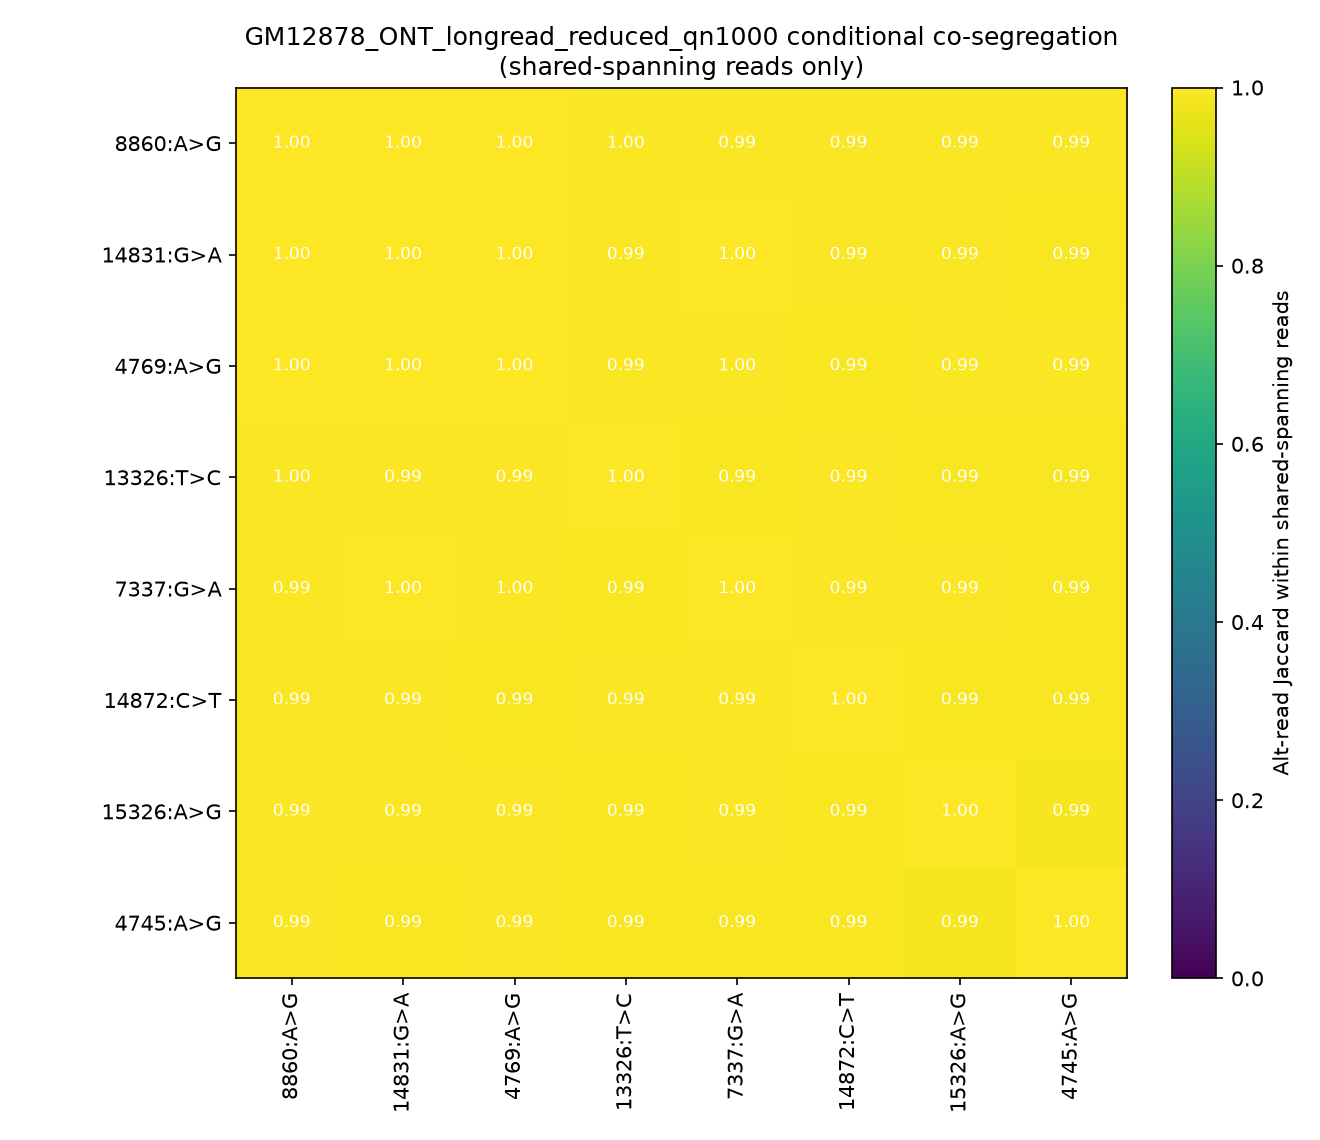
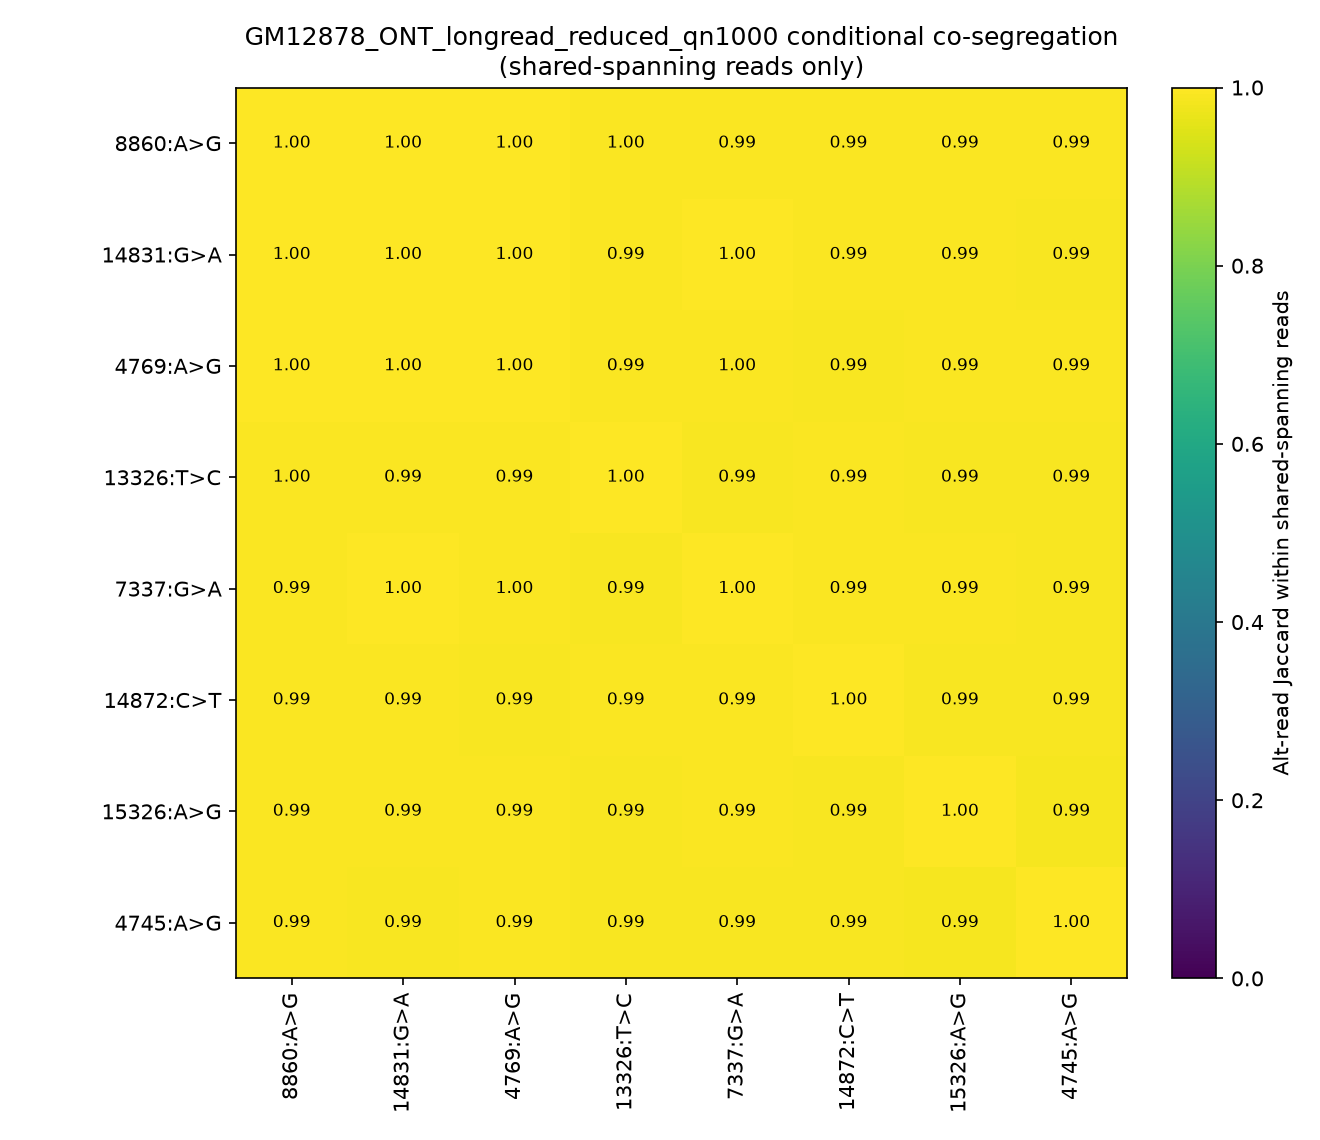
Refresh audited public examples and figure contrast

diff --git a/mito_overview/steps/mito_cosegregation.py b/mito_overview/steps/mito_cosegregation.py
@@ -339,13 +339,18 @@ def _write_heatmap(
             value = values[row_idx, col_idx]
             if np.isnan(value):
                 continue
-            text_color = "white" if value >= 0.6 else "black"
+            text_color = _heatmap_text_color(value)
             plt.text(col_idx, row_idx, f"{value:.2f}", ha="center", va="center", color=text_color, fontsize=8)
     plt.tight_layout()
     figure_path = figure_dir / "mito_cosegregation_heatmap.png"
     plt.savefig(figure_path, dpi=150)
     plt.close()
     return figure_path
+
+
+def _heatmap_text_color(value: float) -> str:
+    """Keep annotations legible across the dark-to-bright viridis scale."""
+    return "black" if value >= 0.6 else "white"
 
 
 def run_step(

diff --git a/tests/test_cosegregation_semantics.py b/tests/test_cosegregation_semantics.py
@@ -6,6 +6,14 @@ import pytest
 from mito_overview.steps import mito_cosegregation as cosegregation
 
 
+@pytest.mark.parametrize(
+    ("value", "expected"),
+    [(0.0, "white"), (0.59, "white"), (0.6, "black"), (1.0, "black")],
+)
+def test_heatmap_annotation_contrast(value: float, expected: str) -> None:
+    assert cosegregation._heatmap_text_color(value) == expected
+
+
 def test_alt_jaccard_is_conditioned_on_shared_spanning_reads() -> None:
     selected_sites = pd.DataFrame({"site_label": ["10:A>C", "20:A>G"]})
     coverage_by_site = {

diff --git a/analysis_log.md b/analysis_log.md
@@ -123,3 +123,9 @@ This log records release-hardening actions that affect the public repository. It
[1 lines of base64/hex data omitted]
 - Wheel and source distribution were installed independently into separate Python 3.12 environments outside the checkout. Each imported version `0.3.0` from its own `site-packages`, exposed all 18 CLI steps, and completed the generic dry-run with empty `PYTHONPATH`. A fresh extraction of the built source distribution independently passed all `562` tests in `178.57 s`.
 - The frozen `paper/**` tree remained `bfb5664db9c8b43ed5de33ecbddef88071fc6378`. Fresh exact-candidate role audits, PR/push CI, empty-cache public reproduction, packet/report generation, tag validation, and GitHub release publication remain pending and are not inferred from these local gates.
+- Three independent read-only audits of candidate `3e9304dee962a08cd308d496a1434495589d3746` identified four additional release blockers. Fresh-tag validation compared only selected synthetic files rather than the complete 88-file long-read and 74-file short-read inventories; the wheel omitted packaged annotation resources; resource-byte labels overstated their measurement scope; and the GM11906 source identity was supported only by project-authored metadata. The scientific audit also found that missing identity/gene evidence could be serialized as observed zero, the public examples retained pre-remediation schemas, and the NUMT/full-length metric mixed primary and all-alignment denominators.
+- Remediation made fresh-tag validation compare exact complete synthetic inventories, packaged the mitochondrial GTF and reference FASTA in the wheel, and added installed-resource lookup tests. Resource metrics now explicitly report broad declared-input bytes and changed/new output bytes rather than claiming operating-system I/O accounting. A tracked NCBI metadata snapshot binds the three GM11906 SRR accessions to their GEO samples and cell-line identity through official GEO SOFT and SRA XML records, with source URLs, retrieval timestamp, and SHA-256 values propagated into cache, matrix, packet, report, and verifier contracts.
+- Scientific remediation now distinguishes unavailable identity and gene-level quantitative evidence from observed zero, derives the long-read full-length fraction only from primary alignment records, cross-checks the same denominator in alignment-ambiguity QC, and marks that metric `not_applicable` for short-read mode. The corrected synthetic bundles were regenerated twice; all 88 long-read files and all 74 short-read files matched byte for byte between independent builds and were promoted only after focused package/release tests passed.
+- Re-ran the corrected GM11906 and GM12878 default public workflows from provenance-verified local alignments without modifying the sealed raw cache. GM11906 retained the preregistered `m.8344A>G` result: callable depth `1027`, alternate count `740`, forward/reverse counts `305/435`, alternate allele fraction `0.720545`, `MT-TK`, and `tRNA_variant`. GM12878 retained `16` candidates, `7,143,152` accepted and `2,047,476` excluded observations, `728` primary and `543` supplementary records, mean/median depth `545.484/544`, eight selected co-occurrence sites, 13 CIGAR-deletion bins, five deletion-supporting query names, and 542 supplementary/SA query names. Both default bundles retained 44 summary TSVs and 14 HTML pages; GM11906 and GM12878 retained seven and 15 PNGs, respectively. A combined matrix containing the corrected defaults passed all `256/256` frozen scientific assertions before the fail-closed 56-file tracked public-example refresh.
+- Visual inspection found that co-segregation heatmap labels used white text on bright viridis cells because the annotation-contrast condition was reversed. The renderer now uses black text for bright cells and white text for dark cells, with a focused threshold test. The corrected GM12878 report-native heatmap and montage were visually inspected, and two long-read toy rebuilds remained byte-identical across all 88 files because the one-site toy correctly has no evaluable heatmap.
+- These refreshed examples and local checks are candidate evidence only. Exact-candidate full tests, workflow gates, package installations, independent re-audits, PR and push CI, empty-cache macOS and Ubuntu reproduction, packet/report construction, annotated tag validation, and GitHub release publication remain pending and must not be inferred from this entry.

diff --git a/examples/public_validation/GM12878_ONT_longread/README.md b/examples/public_validation/GM12878_ONT_longread/README.md
@@ -32,15 +32,15 @@ What these assets do not claim:
 - biological methylation conclusions
 
 Observed packaged key values:
-- mapped reads: `1271.0`
+- mapped reads: `1271`
 - mean depth: `545.484`
-- median depth: `544.0`
-- full-length fraction: `0.3721`
+- median depth: `544`
+- full-length fraction: `0.6497`
 - alternate-allele candidate sites: `16`
 - selected co-segregation sites: `8`
 - top consequence class: `synonymous_variant` (`6` sites)
-- singleton CIGAR-deletion bins: `13.0`; each packaged bin has one supporting query name
-- query names with supplementary/SA evidence, summarized separately: `542.0`
+- singleton CIGAR-deletion bins: `13`; each packaged bin has one supporting query name
+- query names with supplementary/SA evidence, summarized separately: `542`
 - NUMT interpretation status: `not_evaluable` (`reference_scope_mt_only`)
 - within-sample mt:nuclear depth-ratio status: `not_applicable`
 - Phy-Mer status: `not_applicable`
